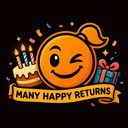
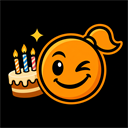
ManyHappyReturns: ModIcon downscaled from the text-free source, with its local .ico
Done at the owner's instruction of 2026-09-28. Mod/About/ModIcon.png is 128x128, 13,982 bytes.
Art/ModIcon.ico (256 px) is the target of the root desktop.ini. The old ribbon-and-gift icon
and its two art files are removed; they stay in history.

diff --git a/Art/README.md b/Art/README.md
@@ -1,12 +1,10 @@
 # Artwork
 
-`Preview-source.png` and `ModIcon-source.png` are the preserved original illustrations.
-The user preferred the original icon style and requested its restoration on 2026-09-13.
-`ModIcon-selected.png` preserves that exact original 128 x 128 delivered PNG, including its
-ribbon, gift and confetti. The build copies it unchanged. This explicit user choice overrides
-the general no-text icon guideline. `ModIcon-text-free-source.png` is an unused alternative.
+`Preview-source.png` is the preserved original illustration.
 
-Exact built-in edit prompt:
+`ModIcon-text-free-source.png` (1254 x 1254) is the source of the delivered icon: `Mod/About/ModIcon.png` is it downscaled to 128 x 128, and `Art/ModIcon.ico` (256 px, outside `Mod/`) is the local folder icon. Downscaled on 2026-09-28 at the owner's instruction. The earlier ribbon-and-gift icon was dropped.
+
+Exact built-in edit prompt for the source:
 
 > Edit target: the attached Many Happy Returns icon. Remove the entire bottom ribbon and all letters. Preserve the distinctive orange round winking mascot with ponytail, thick near-black outline and cake to its left. Simplify for a 128x128 RimWorld mod icon readable at 32 pixels: retain only the mascot and the birthday cake, remove gift box and scattered confetti; retain one small four-point sparkle. Plain near-black background, flat cel shading, no glow, no gradients, no text, no lettering, no ribbon, no frame, no extra characters. Recenter the mascot and cake to occupy most of the square with a modest margin. Output square icon.
 
@@ -24,6 +22,6 @@ text, plus contrast on the opaque badge. Current minima: 7.55:1 title, 8.46:1 su
 10.62:1 badge. Native-size and 268-pixel previews were inspected without clipping, overlaps or
 a concrete camera concern. Generated QA images and the numerical report live in `.build/art/`.
 
-Installed assets: `Mod/About/ModIcon.png` (128 x 128, 23,544 bytes),
+Installed assets: `Mod/About/ModIcon.png` (128 x 128, 13,982 bytes)
 `Mod/About/Preview.png` (896 x 504, 693,827 bytes). The 20–30 KB icon guidance is not a
 minimum file-size requirement; padding an already readable icon would serve no purpose.
